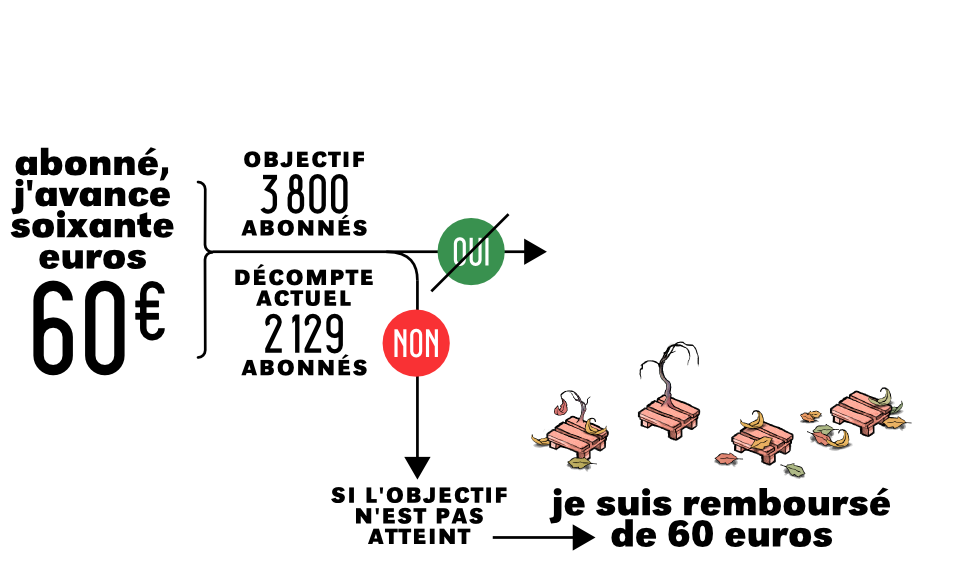
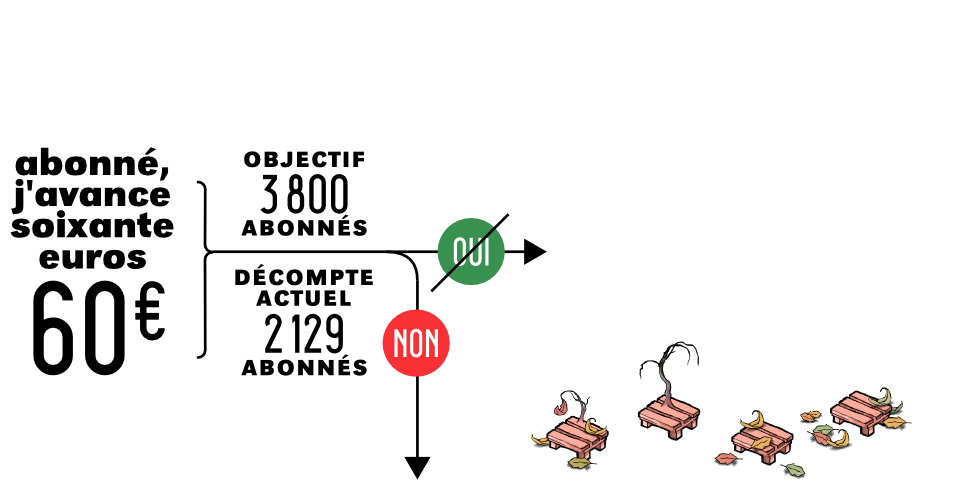
objectifs à part

Changed region(s): [[0.2126, 0.249, 0.9717, 0.9959], [0.0, 0.249, 0.1822, 0.778], [0.2126, 0.3423, 0.2429, 0.3734]]

diff --git a/longform/appel.html b/longform/appel.html
@@ -18,23 +18,27 @@
             <img src="static/img/medor-objet-contenu.png" />
         </figure>
         <p><span>Trimestriel<br />cooperatif belge;<br />enquetes et recit.</span></p>
-    </header>
-
-    <main>
-        <div id="intro" class="wrap">
-            <p>Médor n'est pas un chien. C'est un magazine belge d'enquêtes et de récits. 128 pages, 16×23cm, quadrichromie. Au programme de chaque numéro : 2 grandes enquêtes, 3 récits et portraits, un entretien, un portfolio photo et des rubriques dans le ventre. Médor est un aussi un projet coopératif. Peut-être le vôtre?</p>
+                    <div style="position:absolute; top:0px; right:0px;">
             <p>
                 <a href="#subscribing" class="button">déjà convaincu!</a>
                 <a href="#cooperating" class="button">quoi ça?</a>
                 <a href="#equipe" class="button">C'est qui?</a>
             </p>
+            </div>
+    </header>
+
+    <main>
+        <div id="intro" class="wrap">
+            <p>Médor n'est pas un chien. C'est un magazine belge d'enquêtes et de récits. 128 pages, 16×23cm, quadrichromie. Au programme de chaque numéro : 2 grandes enquêtes, 3 récits et portraits, un entretien, un portfolio photo et des rubriques dans le ventre. Médor est un aussi un projet coopératif. Peut-être le vôtre?</p>
+            
+
         </div>
 
-        <div id="subscribing">
-            <div class="image-fund">
-                <img src="static/img/objectif-je-mabonne-oui-ss-fond.svg" />
-            </div>
-            <div class="text-fund">
+        <div id="subscribing" />
+        
+			    <img src="static/img/je_m-abonne.png" class="left-arrow"/>
+
+            <div class="text">
                 <h2>Abonnez-vous</h2>
                 <p>Pour 60€ vous êtes abonné à Médor pendant un an et recevez quatre numéros. Si 3799 autres personnes posent ce même engagement, Médor sortira. Bravo : vous venez de créer un magazine et vous recevrez votre premier numéro en septembre 2015.</p>
                 <details>
@@ -46,7 +50,9 @@
                     </ul>
                 </details>
             </div>
-        </div>
+				    <img class="schema" src="static/img/3800-abonnes-yes.png" />
+		        <img class="right-arrow" src="static/img/je_m-abonne_fleche.png" />
+	        </div>
 
         <div id="cooperating">
             <div class="image-fund">
@@ -235,7 +241,7 @@ En construisant sa propre plateforme de publication libre, initiée et développ
                 </div>
 
                 <figure id="maquette">
-                    <img alt="maquette" src="static/img/maquette-nuage.png" />
+                    <img alt="maquette" src="static/img/longform-meta.png" />
                     <figcaption>Voir un détail de la maquette</figcaption>
                 </figure>
 

diff --git a/longform/templates/longform.html b/longform/templates/longform.html
@@ -18,23 +18,27 @@
             <img src="static/img/medor-objet-contenu.png" />
         </figure>
         <p><span>Trimestriel<br />cooperatif belge;<br />enquetes et recit.</span></p>
-    </header>
-
-    <main>
-        <div id="intro" class="wrap">
-            <p>Médor n'est pas un chien. C'est un magazine belge d'enquêtes et de récits. 128 pages, 16×23cm, quadrichromie. Au programme de chaque numéro : 2 grandes enquêtes, 3 récits et portraits, un entretien, un portfolio photo et des rubriques dans le ventre. Médor est un aussi un projet coopératif. Peut-être le vôtre?</p>
+                    <div style="position:absolute; top:0px; right:0px;">
             <p>
                 <a href="#subscribing" class="button">déjà convaincu!</a>
                 <a href="#cooperating" class="button">quoi ça?</a>
                 <a href="#equipe" class="button">C'est qui?</a>
             </p>
+            </div>
+    </header>
+
+    <main>
+        <div id="intro" class="wrap">
+            <p>Médor n'est pas un chien. C'est un magazine belge d'enquêtes et de récits. 128 pages, 16×23cm, quadrichromie. Au programme de chaque numéro : 2 grandes enquêtes, 3 récits et portraits, un entretien, un portfolio photo et des rubriques dans le ventre. Médor est un aussi un projet coopératif. Peut-être le vôtre?</p>
+            
+
         </div>
 
-        <div id="subscribing">
-            <div class="image-fund">
-                <img src="static/img/objectif-je-mabonne-oui-ss-fond.svg" />
-            </div>
-            <div class="text-fund">
+        <div id="subscribing" />
+        
+			    <img src="static/img/je_m-abonne.png" class="left-arrow"/>
+
+            <div class="text">
                 <h2>Abonnez-vous</h2>
                 <p>Pour 60€ vous êtes abonné à Médor pendant un an et recevez quatre numéros. Si 3799 autres personnes posent ce même engagement, Médor sortira. Bravo : vous venez de créer un magazine et vous recevrez votre premier numéro en septembre 2015.</p>
                 <details>
@@ -46,7 +50,9 @@
                     </ul>
                 </details>
             </div>
-        </div>
+				    <img class="schema" src="static/img/3800-abonnes-yes.png" />
+		        <img class="right-arrow" src="static/img/je_m-abonne_fleche.png" />
+	        </div>
 
         <div id="cooperating">
             <div class="image-fund">
@@ -235,7 +241,7 @@ En construisant sa propre plateforme de publication libre, initiée et développ
                 </div>
 
                 <figure id="maquette">
-                    <img alt="maquette" src="static/img/maquette-nuage.png" />
+                    <img alt="maquette" src="static/img/longform-meta.png" />
                     <figcaption>Voir un détail de la maquette</figcaption>
                 </figure>
 

diff --git a/longform/static/css/styles.less b/longform/static/css/styles.less
@@ -200,12 +200,13 @@
     position: relative;
     border-bottom: 10px double black;
     background-color: white;
+    margin-left:380px;
 }
 
 .jcarousel {
     position: relative;
     overflow: hidden;
-    margin: 0 50px;
+    margin: 0 100px;
     z-index: 2;
 }
 
@@ -216,7 +217,10 @@
 
 .jcarousel-item {
     float: left;
-    color:@color-A2;
+    color:black;
+    h3{
+        text-transform:uppercase;
+        }
 }
 
 .jcarousel-controls {
@@ -247,13 +251,11 @@
 .jcarousel-control-prev {
     left: 0px;
     background-image: url("../img/arrow-left3.svg");
-    border-right:3px solid @color-B2;
 }
 
 .jcarousel-control-next {
     right: 0px;
     background-image: url("../img/arrow3.svg");
-        border-left:3px solid @color-B2;
 
 
 }
@@ -277,6 +279,37 @@ body {
     margin-right: 10px;
 }
 
+#subscribing {
+	margin-left: 150px;
+	margin-right: 50px;
+}
+
+.left-arrow {
+    height: 250px;
+    position: absolute;
+    top: 0;
+    left: -150px;
+}
+
+.right-arrow {
+    height: 250px;
+    position: absolute;
+    top: 0;
+    right: -50px;
+}
+
+.text {
+	margin-right: 70%;
+	margin-left: 50px;  
+}
+
+.schema {
+	position: absolute;
+	top: -70px;
+	left: 30%;
+	width: 65%;    
+}
+
 .jcarousel-outer,
 #donating,
 #subscribing,
@@ -286,7 +319,7 @@ body {
 }
 
 #donating,
-#subscribing,
+/*#subscribing,*/
 #cooperating {
     padding: 3em 0;
 }
@@ -417,13 +450,13 @@ main h3 {
 }
 
 #intro {
-font-family:'alfphabetbipocatcondensed';
-font-size: 1.1em;
-color: black;
+	font-family:'alfphabetbipocatcondensed';
+	font-size: 1.1em;
+	color: black;
 }
 
 #subscribing {
-    background-color: @color-A4;
+    background-color: lighten(@color-A4, 20%);
 }
 
 #cooperating {
@@ -437,8 +470,7 @@ color: black;
 #subscribing h2,
 #cooperating h2,
 #donating h2 {
-    margin: 0;
-    font-size: 19px * 2;
+	display: none;
 }
 
 .tranche {
@@ -497,7 +529,7 @@ color: black;
     position: relative;
     padding: 16px;
     counter-increment: foo;
-    color: @color-B2;
+    color: black;
 }
 
 #dna .jcarousel-item:before {
@@ -507,7 +539,8 @@ color: black;
 #dna h3 {
     margin: 0.5em 0;
     font-family: inherit;
-    color: black;
+    color: @color-A2;
+    text-transform:uppercase;
 }
 
 #Les_frais_de_lancement {
@@ -518,8 +551,8 @@ color: black;
 #maquette {
     display: block;
     position: absolute;
-    right: -100px;
-    top: 400px;
+	    right: -260px;
+    top: 215px;
     z-index: -1;
 }
 
